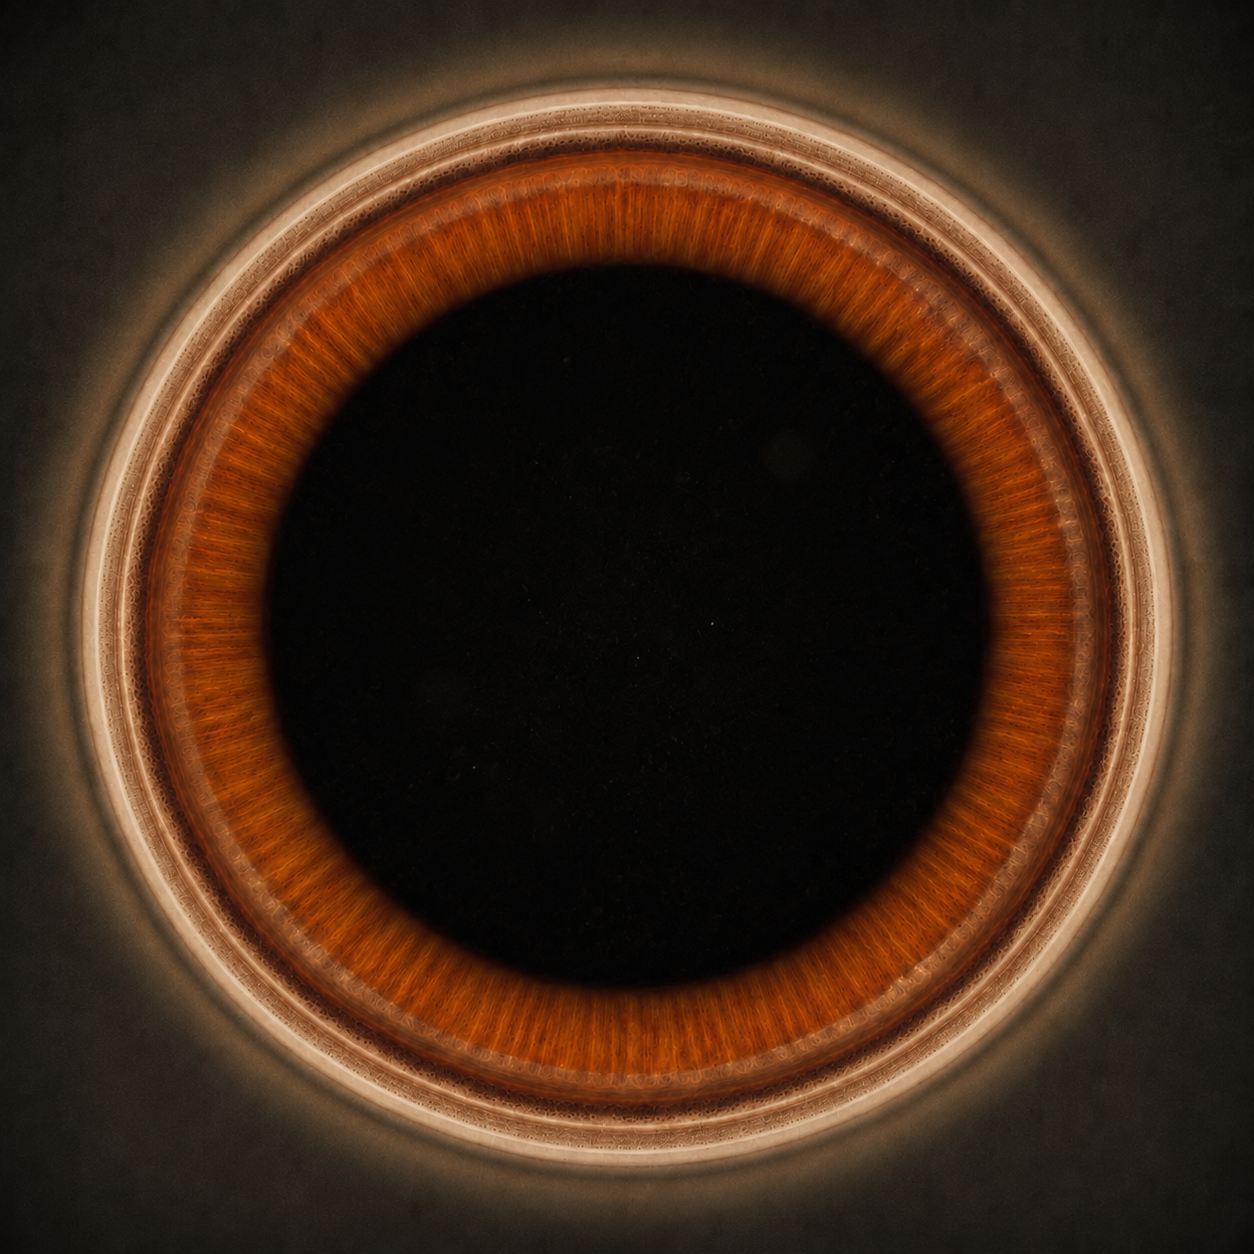
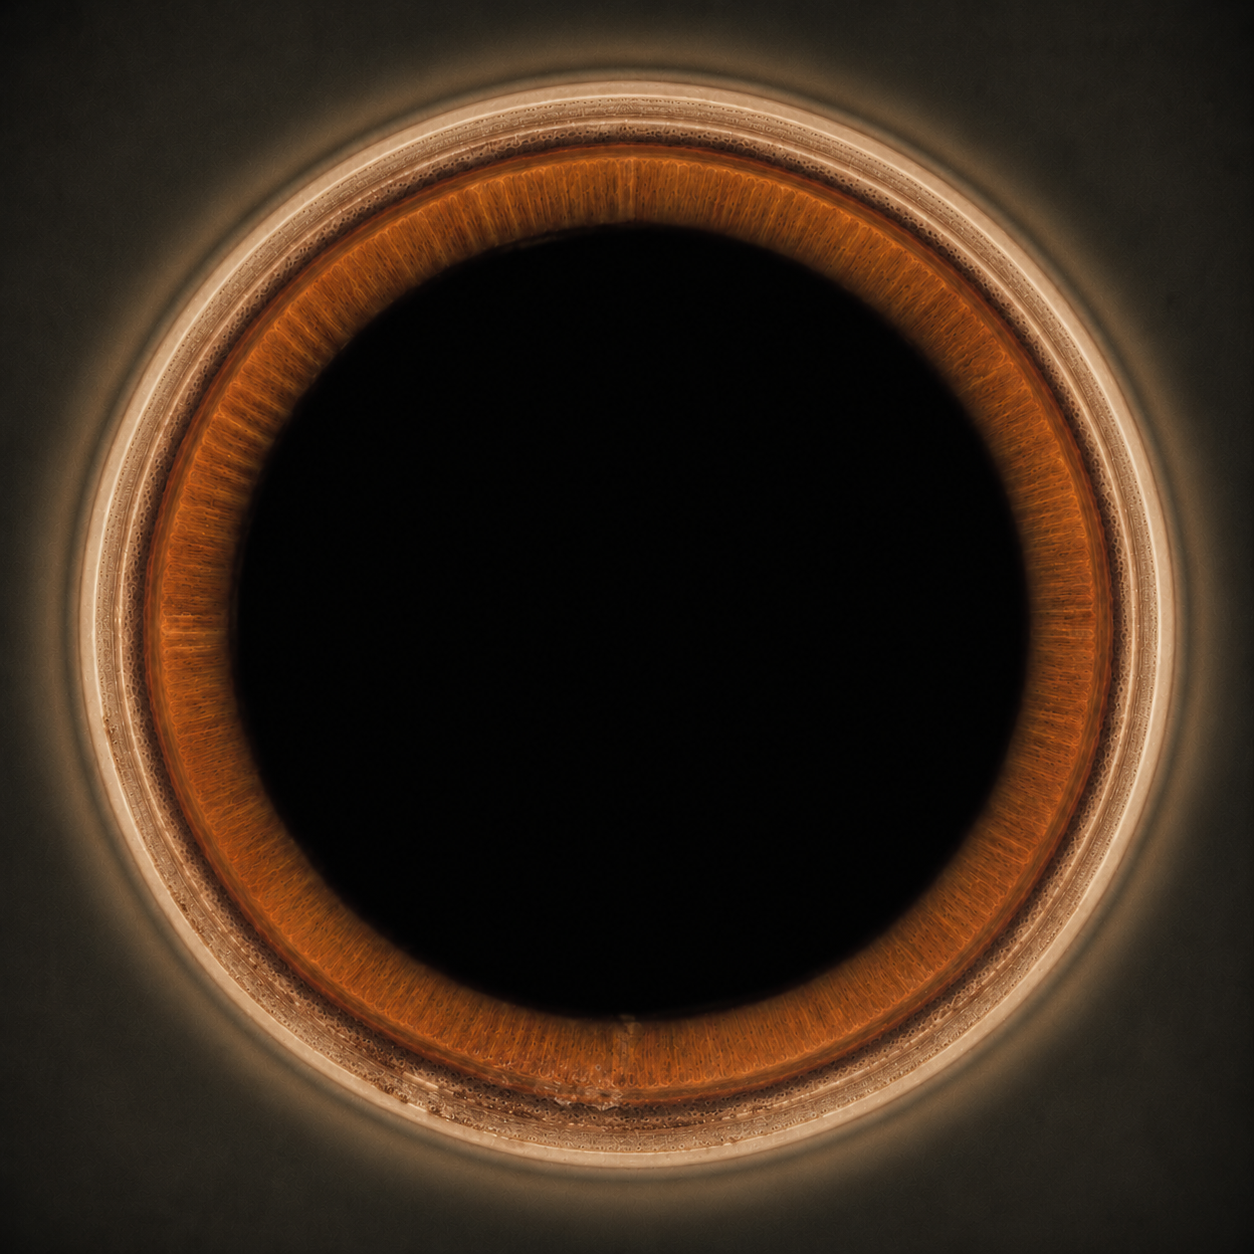
Grade the Shaffer and pigment series by measurement; masks only on the normal
The graded series really were all the same picture. I had concluded the atlas
held no narrow angles, and that was wrong: my detector scanned only to r=0.79
and read everything past it as a failure, when in fact it meant the iris reached
beyond the scleral spur — which is exactly what a narrow angle looks like.

Measuring the right quantity fixes it. The iris edge is found by colour rather
than brightness — red minus blue separates orange iris from the grey angle
structures cleanly — and the edge then falls straight onto our own mask radii:

  Shaffer 0   iris edge 0.885   past Schwalbe's, nothing identifiable
  Shaffer 1   iris edge 0.838   up into the meshwork, Schwalbe's only
  Shaffer 2   iris edge 0.792   past the spur, meshwork still visible
  Shaffer 3   iris edge 0.763   the normal angle
  Shaffer 4   iris edge 0.660   ciliary band fully in view

Pigment was ranked the same way, on meshwork luminance around the full
circumference. That also corrected an earlier call: the disc I had named heavy
by eye measures middling and varies widely round the clock, so it is sectoral,
not uniform heavy, and has been replaced.

Grade descriptions rewritten against Alward's Table 1 for widths and closure
risk, and the Bayer & Spaeth indentation chapter for what each manoeuvre opens.

The MIGS stent case is gone.

Masks are now offered only on the normal angle. They are calibrated to its disc,
and on a narrow angle the iris sits over the meshwork, so the highlight would
[…]

Changed region(s): [[0.0311, 0.0311, 0.9641, 0.9641]]

diff --git a/data.js b/data.js
@@ -132,25 +132,25 @@ Gonio.CASES = [
 
   /* --- Angle closure, graded --- */
   {
-    id: "closure_g0", group: "Angle closure — Shaffer grade", disc: "disc.png",
+    id: "closure_g0", group: "Angle closure — Shaffer grade", disc: "atlas_closure_g0.png",
     name: "Grade 0 — Closed",
-    description: "Imagery for this case is still to come — the view shows the normal angle. Iridotrabecular contact all the way round — no angle structures visible (Shaffer 0). Tilting the lens will not open this view: indentation gonioscopy is needed to tell appositional closure from adherent synechial closure, and the worst case should be assumed until it does.",
+    description: "Iridotrabecular contact all the way round: the iris fills the angle and no structure can be identified (Shaffer 0, 0°). Tilting will not open this — indentation is what separates appositional contact from adherent synechial closure, and until it does the worst case is assumed.",
     clockHours: makeClockHours(
       { insertion: "closed", contour: "convex", pigment: 1, pasBridge: false, vessels: false, sampaolesi: false, closure: "appositional" }
     )
   },
   {
-    id: "closure_g1", group: "Angle closure — Shaffer grade", disc: "disc.png",
+    id: "closure_g1", group: "Angle closure — Shaffer grade", disc: "atlas_closure_g1.png",
     name: "Grade 1 — Very narrow",
-    description: "Imagery for this case is still to come — the view shows the normal angle. An extremely narrow angle — only Schwalbe's line is seen (Shaffer 1), the convex peripheral iris hiding everything behind it. Closure is probable. Tilt the lens toward the angle to see farther posteriorly and reveal the meshwork.",
+    description: "An extremely narrow angle (Shaffer 1, ≤10°): the iris rises to Schwalbe's line, leaving only a thin strip of it in view and hiding everything behind. Closure is probable. Tilt the lens toward the angle to see farther posteriorly.",
     clockHours: makeClockHours(
       { insertion: "schwalbe", contour: "convex", pigment: 1, pasBridge: false, vessels: false, sampaolesi: false, closure: "optical" }
     )
   },
   {
-    id: "closure_g2", group: "Angle closure — Shaffer grade", disc: "disc.png",
+    id: "closure_g2", group: "Angle closure — Shaffer grade", disc: "atlas_closure_g2.png",
     name: "Grade 2 — Narrow",
-    description: "Imagery for this case is still to come — the view shows the normal angle. A narrow angle — seen down to the pigmented meshwork but not the scleral spur (Shaffer 2); closure is possible. The spur and ciliary body band are hidden by the iris convexity, so tilting the lens brings them into view.",
+    description: "A narrow angle (Shaffer 2, 20°): visible down to the trabecular meshwork but not the scleral spur, so closure is possible. The spur and ciliary band are hidden by the iris convexity, which is why tilting brings them back.",
     clockHours: makeClockHours(
       { insertion: "tm_p", contour: "convex", pigment: 1, pasBridge: false, vessels: false, sampaolesi: false, closure: "optical" }
     )
@@ -165,11 +165,9 @@ Gonio.CASES = [
     )
   },
   {
-    id: "closure_g4", group: "Angle closure — Shaffer grade", disc: "disc.png",
-    // this disc's dark ciliary band sits further in, and is broader
-    masks: [{ rOut: 0.760 }, { rIn: 0.752 }],
+    id: "closure_g4", group: "Angle closure — Shaffer grade", disc: "atlas_closure_g4.png",
     name: "Grade 4 — Wide open",
-    description: "Imagery for this case is still to come — the view shows the normal angle. A wide-open angle — the full width of the ciliary body band is visible all the way round (Shaffer 4, 35–45°). Compare the band here with the narrower one in the normal angle: this breadth of ciliary body face is what marks the angle as wide open.",
+    description: "A wide-open angle (Shaffer 4, 35–45°): the full breadth of the ciliary body face is in view all the way round and closure is impossible. Set the width of that band against the normal angle — it is what marks an angle as wide open.",
     clockHours: makeClockHours(
       { insertion: "cb", contour: "flat", pigment: 1, pasBridge: false, vessels: false, sampaolesi: false }
     )
@@ -337,7 +335,7 @@ Gonio.CASES = [
   {
     id: "posterior_embryotoxon", group: "Developmental", disc: "disc.png",
     name: "Posterior embryotoxon",
-    description: "Imagery for this case is still to come — the view shows the normal angle. A prominent, anteriorly-displaced Schwalbe's line standing forward as a white ridge, most often inferiorly. A common normal variant; when florid and accompanied by prominent iris strands bridging to it, it becomes part of the Axenfeld-Rieger spectrum.",
+    description: "A prominent, anteriorly-displaced Schwalbe's line standing forward as a white ridge, most often inferiorly. A common normal variant; when florid and accompanied by prominent iris strands bridging to it, it becomes part of the Axenfeld-Rieger spectrum.",
     clockHours: makeClockHours(
       { insertion: "cb", contour: "flat", pigment: 1, pasBridge: false, vessels: false, sampaolesi: false }
     )
@@ -352,15 +350,6 @@ Gonio.CASES = [
       { insertion: "cb", contour: "flat", pigment: 2, pasBridge: false, vessels: false, sampaolesi: false }
     )
     // the finding is in the atlas image
-  },
-  {
-    id: "migs_stent", group: "After laser & surgery", disc: "disc.png",
-    name: "MIGS stent in the angle",
-    description: "A trabecular bypass stent seated across the meshwork nasally, where Schlemm's canal and the collector channels are richest. Gonioscopy confirms the device is correctly positioned in the meshwork and not buried in iris or sitting free in the chamber — the reason intraoperative and post-operative gonioscopy matters in the MIGS era.",
-    clockHours: makeClockHours(
-      { insertion: "cb", contour: "flat", pigment: 1, pasBridge: false, vessels: false, sampaolesi: false }
-    ),
-    sectors: [{ type: "stent", from: 2.75, to: 3.25 }]
   },
   {
     id: "postsurgical_pigment", group: "After laser & surgery", disc: "atlas_postsurgical_pigment.png",

diff --git a/app-glue.js b/app-glue.js
@@ -25,6 +25,7 @@
 
   var $ = function (id) { return document.getElementById(id); };
   var mode = "explore";
+  var maskable = true;          // masks are only calibrated for the normal angle
   var currentCase = Gonio.CASES[0];
 
   /* ---- pathology sidebar ---- */
@@ -63,6 +64,14 @@
     V.setDiscImage(currentCase.disc);        // swap to this case's disc
     V.setBaseStructures(currentCase.masks);  // per-disc mask baseline, if it needs one
     V.setSectors(currentCase.sectors);       // sectoral findings, fixed to the clock
+    /* The masks are calibrated against the normal angle's disc. On any other
+       case the bands sit differently — a narrow angle has the iris right up over
+       the meshwork — so the highlight would land on the wrong tissue and teach
+       the wrong thing. Masks are therefore offered only on the normal angle. */
+    maskable = (currentCase.id === "normal");
+    V.setMasks(maskable && maskSwitch.checked);
+    maskSwitch.disabled = !maskable;
+    maskSwitch.closest(".mask-toggle").classList.toggle("disabled", !maskable);
     applyVisibility();                       // show only the layers present in this case
     $("case-desc").textContent = currentCase.description;
     updateGrading();
@@ -126,7 +135,7 @@
 
   /* ---- anatomy-mask toggle ---- */
   var maskSwitch = $("mask-switch");
-  maskSwitch.addEventListener("change", function () { V.setMasks(maskSwitch.checked); });
+  maskSwitch.addEventListener("change", function () { V.setMasks(maskable && maskSwitch.checked); });
 
   /* ---- clock-hour dial: grab the outer knob and spin ---- */
   var svg = $("dial-svg"), rotor = $("dial-rotor"), knobNum = $("knob-num");

diff --git a/styles.css b/styles.css
@@ -60,6 +60,9 @@ select { font-family: var(--sans); font-size: 14px; padding: 8px 12px; border: 1
 .mask-toggle .switch::after { content: ""; position: absolute; top: 2px; left: 2px;
   width: 20px; height: 20px; border-radius: 50%; background: #fff;
   box-shadow: 0 1px 2px rgba(0,0,0,.3); transition: transform .16s; }
+.mask-toggle.disabled { opacity: 0.4; cursor: not-allowed; }
+.mask-toggle.disabled .switch { background: #c8c8c8 !important; }
+.mask-toggle.disabled .switch::after { transform: none !important; }
 .mask-toggle input:checked + .switch { background: var(--navy); }
 .mask-toggle input:checked + .switch::after { transform: translateX(18px); }
 
